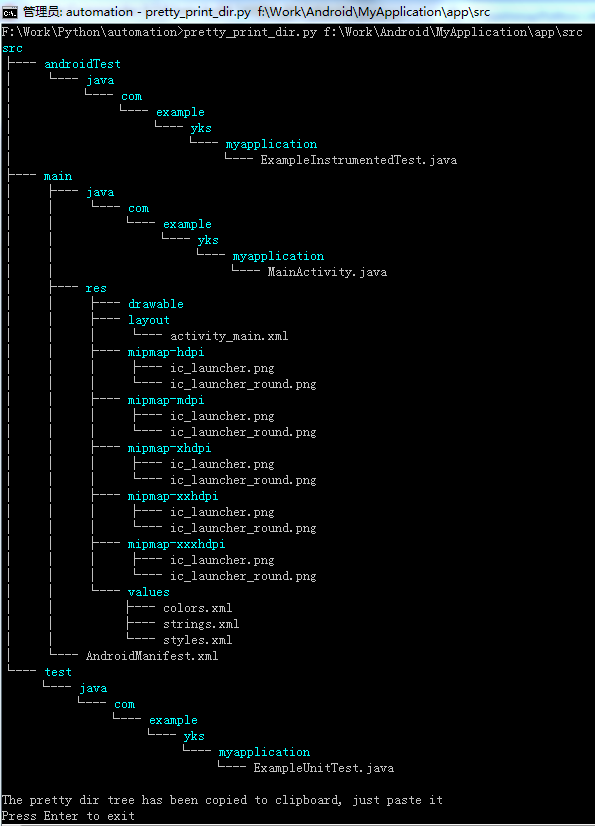
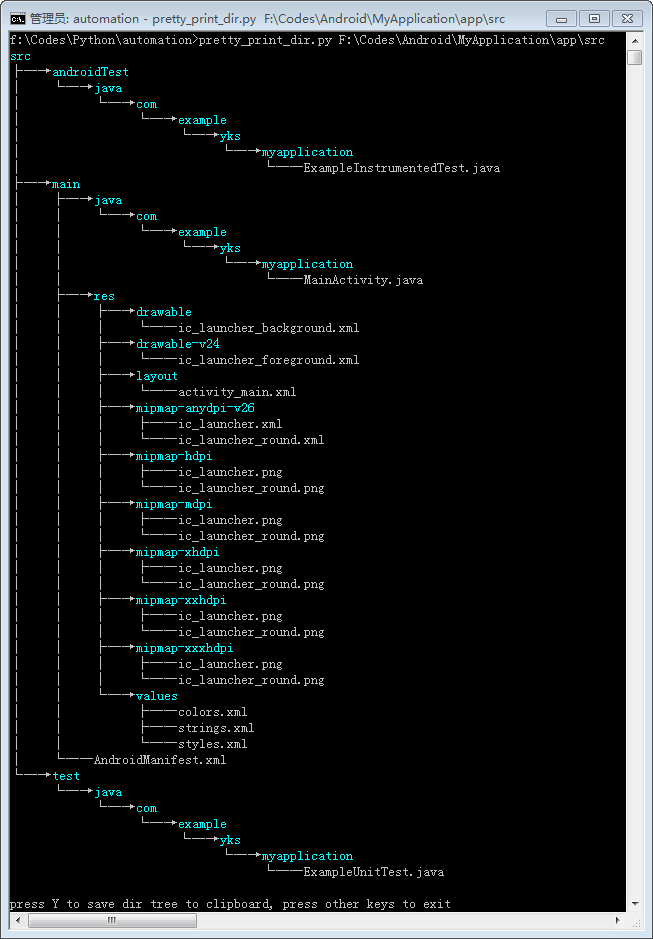
update to 2.0.0. many changes.

diff --git a/demos/pretty_print_dir.py b/demos/pretty_print_dir.py
@@ -6,7 +6,6 @@ import sys
 sys.path.append(os.path.dirname(os.path.dirname(os.path.abspath(__file__))))  # not required after 'pip install uiautomation'
 import uiautomation as auto
 
-
 def GetDirChildren(directory):
     if os.path.isdir(directory):
         subdirs = []
@@ -19,29 +18,33 @@ def GetDirChildren(directory):
                 files.append(absPath)
         return subdirs + files
 
-
 def main(directory, maxDepth = 0xFFFFFFFF):
     remain = {}
-    text = []
+    texts = []
     absdir = os.path.abspath(directory)
     for it, depth, remainCount in auto.WalkTree(absdir, getChildren=GetDirChildren, includeTop=True, maxDepth=maxDepth):
         remain[depth] = remainCount
         isDir = os.path.isdir(it)
-        prefix = ''.join(['│   ' if remain[i+1] else '    ' for i in range(depth - 1)]) # u'│   ' for python 2
+        prefixPrint = ''.join(['│　　' if remain[i + 1] else '　　　' for i in range(depth - 1)])
+        prefixLog = ''.join(['│   ' if remain[i + 1] else '    ' for i in range(depth - 1)])
         if depth > 0:
             if remain[depth] > 0:
-                prefix += '├─→ ' if isDir else '├── '   #'□─→ ' # u'├─→ ' for python 2
+                prefixPrint += '├─→' if isDir else '├──'
+                prefixLog += '├─→ ' if isDir else '├── '
             else:
-                prefix += '└─→ ' if isDir else '└── '   #'□─→ ' # u'└─→ ' for python 2
-        file = it[it.rfind('\\')+1:]
-        text.append(prefix)
-        text.append(file)
-        text.append('\r\n')
-        auto.Logger.Write(prefix)
-        auto.Logger.WriteLine(file, auto.ConsoleColor.Cyan if os.path.isdir(it) else -1)
+                prefixPrint += '└─→' if isDir else '└──'
+                prefixLog += '└─→ ' if isDir else '└── '
+        file = os.path.basename(it)
+        texts.append(prefixLog)
+        texts.append(file)
+        texts.append('\n')
+        auto.Logger.Write(prefixPrint, writeToFile=False)
+        auto.Logger.WriteLine(file, auto.ConsoleColor.Cyan if os.path.isdir(it) else auto.ConsoleColor.Default, writeToFile=False)
+    allText = ''.join(texts)
+    auto.Logger.WriteLine(allText, printToStdout=False)
     ret = input('\npress Y to save dir tree to clipboard, press other keys to exit')
     if ret.lower() == 'y':
-        auto.SetClipboardText(''.join(text))
+        auto.SetClipboardText(allText)
 
 if __name__ == '__main__':
     if len(sys.argv) == 1:

diff --git a/readme.md b/readme.md
@@ -65,11 +65,13 @@ root(Name='Desktop', Depth=0)
 　　window1(Depth=1)  
 　　　　control1-001(Depth=2)  
 　　　　control1-...(Depth=2)  
+　　　　...  
 　　　　control1-100(Depth=2)  
 　　window2(Name='window2', Depth=1)  
 　　　　control2-1(Depth=2)  
 　　　　　　control2-1-001(Depth=3)  
 　　　　　　control2-1-...(Depth=3)  
+　　　　　　...  
 　　　　　　control2-1-100(Depth=3)  
 　　　　control2-2(Depth=2)  
 　　　　control2-3(Depth=2)  

diff --git a/readme_cn.md b/readme_cn.md
@@ -49,11 +49,13 @@ root(Name='Desktop', Depth=0)
 　　window1(Depth=1)  
 　　　　control1-001(Depth=2)  
 　　　　control1-...(Depth=2)  
+　　　　...  
 　　　　control1-100(Depth=2)  
 　　window2(Name='window2', Depth=1)  
 　　　　control2-1(Depth=2)  
 　　　　　　control2-1-001(Depth=3)  
 　　　　　　control2-1-...(Depth=3)  
+　　　　　　...  
 　　　　　　control2-1-100(Depth=3)  
 　　　　control2-2(Depth=2)  
 　　　　control2-3(Depth=2)  
